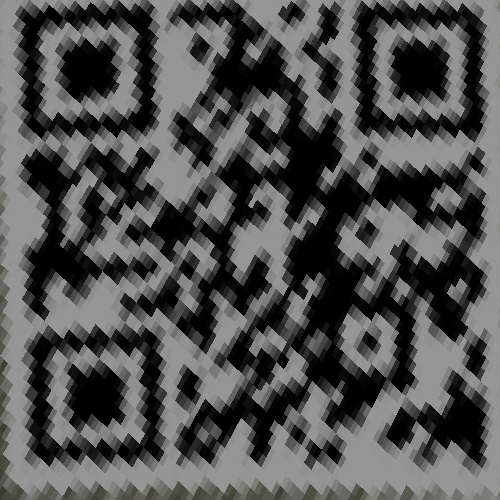
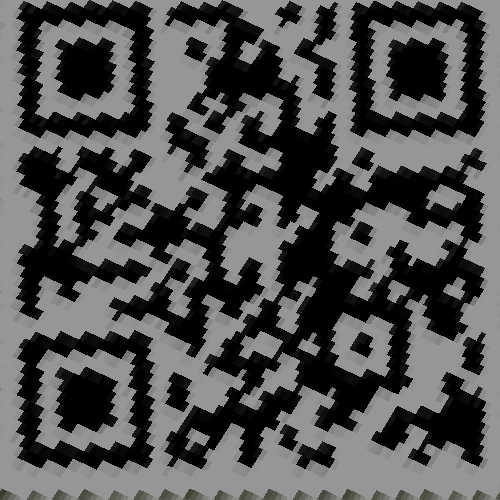
Fix the bug of HW3 * using the same array for dst

diff --git a/HW3/src/part3.py b/HW3/src/part3.py
@@ -19,8 +19,8 @@ if __name__ == '__main__':
     H1 = solve_homography(corners1, v)
     H2 = solve_homography(corners2, v)
 
-    output3_1 = warping(secret1, dst, H1, 0, h, 0, w, direction='b')
-    output3_2 = warping(secret2, dst, H2, 0, h, 0, w, direction='b')
+    output3_1 = warping(secret1, dst.copy(), H1, 0, h, 0, w, direction='b')
+    output3_2 = warping(secret2, dst.copy(), H2, 0, h, 0, w, direction='b')
     print(np.array_equal(output3_1, output3_2))
     
     cv2.imwrite('output3_1.png', output3_1)

diff --git a/HW3/README.md b/HW3/README.md
@@ -21,9 +21,9 @@
 
 <img src=./resource/Matrix_Homography_3.png width="400" >
 
-    * $𝐴ℎ = 0$
-    * $SVD of A = U \sum V^T$
-    * Let ℎ be the last column of 𝑉.
+  * $𝐴ℎ = 0$
+  * $SVD of A = U \sum V^T$
+  * Let ℎ be the last column of 𝑉.
 
 ### Forward Warping
 
@@ -39,13 +39,19 @@ image as if it were there.
 
 ### Backward Warping
 
-<img src=./resource/times.jpg width="400" > <img src=./src/output1_2.png width="400" >
+    <img src=./resource/times.jpg width="400" > <img src=./src/output1_2.png width="400" >
 
 ## [Part 3: Unwarp the Secret](./src/part3.py)
 
 * Unwarp the QR code with backward warping.
 
 <img src=./resource/BL_secret1.png width="400" > <img src=./resource/BL_secret2.png width="400" >
+
+### Distortion Correction
+
+W vs. W/O
+
+<img src=./src/output3_1.png width="400" > <img src=./src/output3_2.png width="400" >
 
 ## [Part 4: Panorama](./src/part4.py)
 
@@ -59,7 +65,7 @@ image as if it were there.
   * Use opencv brute force matcher for feature matching.
     * cv.BFMatcher( ), match( )
 
-<img src=./src/output4.png width="800" >
+    <img src=./src/output4.png width="800" >
 
 ## Runs
 
